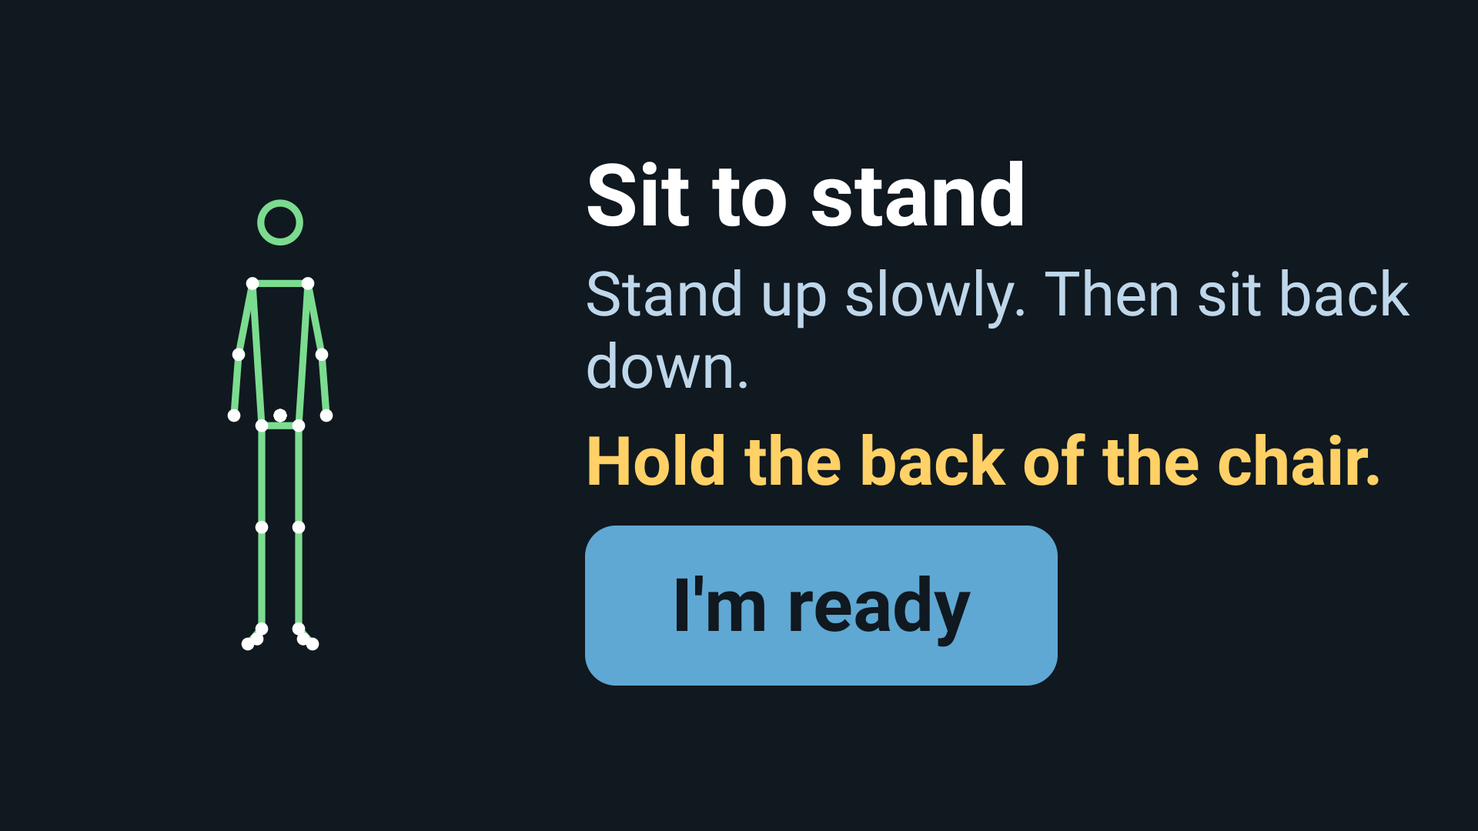
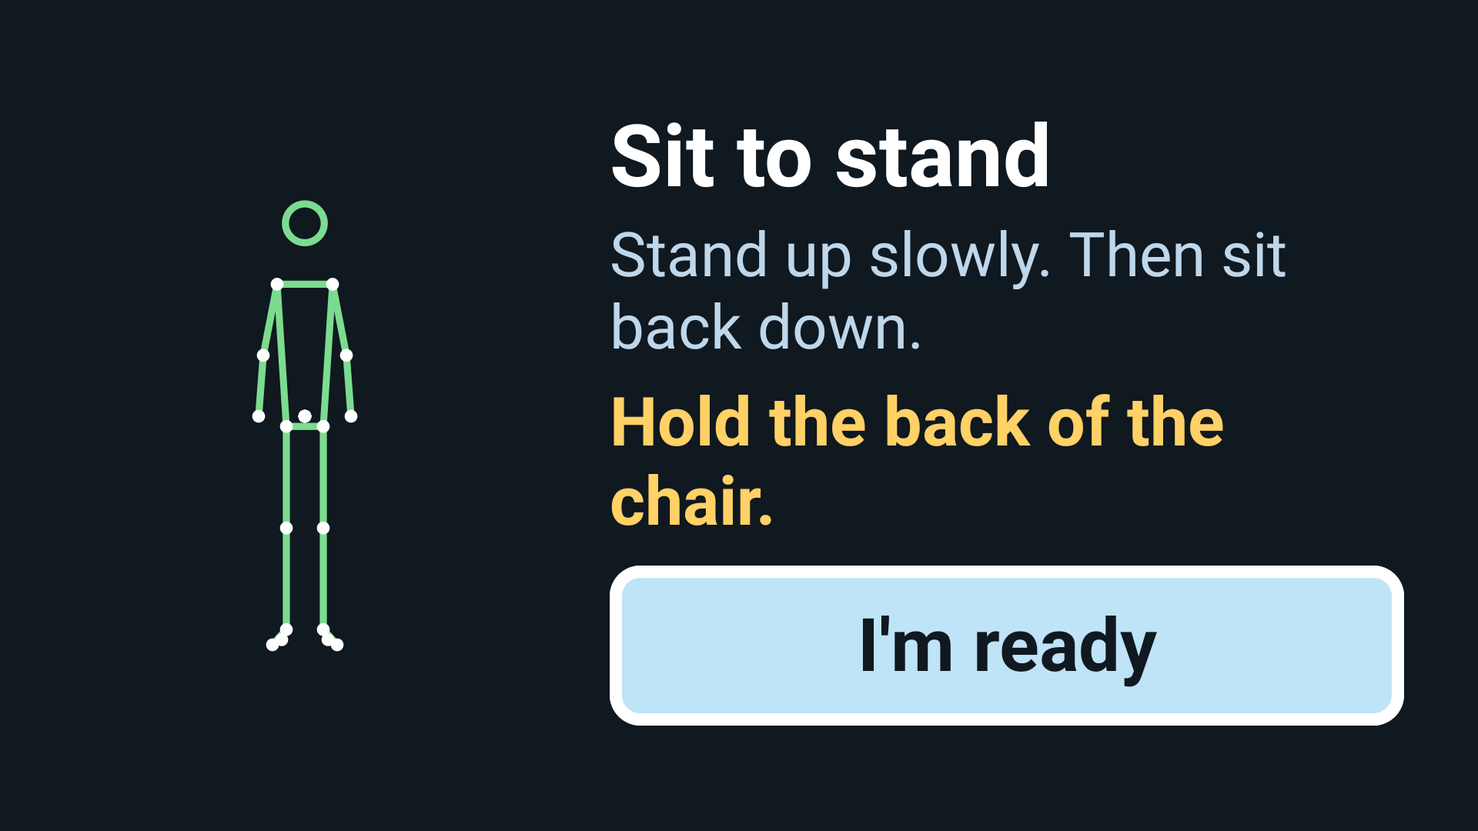
worldclass: visible focus ring on every screen, equal Home grid, compact Finish, test fixes

Changed region(s): [[0.375, 0.1528, 0.9688, 0.8861], [0.1562, 0.3361, 0.25, 0.7944], [0.1562, 0.2444, 0.2188, 0.3056]]

diff --git a/android/app/src/main/java/com/steadyup/tv/Screens.kt b/android/app/src/main/java/com/steadyup/tv/Screens.kt
@@ -2,6 +2,7 @@ package com.steadyup.tv
 
 import androidx.compose.foundation.BorderStroke
 import androidx.compose.foundation.background
+import androidx.compose.foundation.border
 import androidx.compose.foundation.layout.Arrangement
 import androidx.compose.foundation.layout.Box
 import androidx.compose.foundation.layout.Column
@@ -49,7 +50,7 @@ object Ink {
 
 @OptIn(ExperimentalTvMaterial3Api::class)
 @Composable
-fun BigButton(label: String, onClick: () -> Unit, autoFocus: Boolean = true, fontSp: Int = 48) {
+fun BigButton(label: String, onClick: () -> Unit, autoFocus: Boolean = true, fontSp: Int = 48, modifier: Modifier = Modifier, fixedSize: Boolean = false) {
     val focus = remember { FocusRequester() }
     var focused by remember { mutableStateOf(false) }
     // The remote's OK press must land on this button with no arrow keys. Focus can fail while the screen is still
@@ -58,24 +59,33 @@ fun BigButton(label: String, onClick: () -> Unit, autoFocus: Boolean = true, fon
         if (!autoFocus) return@LaunchedEffect
         repeat(30) { if (!focused) { runCatching { focus.requestFocus() }; delay(100) } }
     }
+    val shape = RoundedCornerShape(20.dp)
     Surface(
         onClick = onClick,
-        modifier = Modifier.focusRequester(focus).onFocusChanged { focused = it.isFocused },
-        shape = ClickableSurfaceDefaults.shape(RoundedCornerShape(20.dp)),
+        // hasFocus (not isFocused): the real focusable lives inside Surface, below this modifier. Knowing it has focus
+        // stops the retry loop above; asking again every 100 ms kept resetting Surface's own focus ring.
+        // We draw the one focus ring and the lighter fill from that state, so focus is visible however it arrived.
+        modifier = modifier.focusRequester(focus).onFocusChanged { focused = it.hasFocus }
+            .then(if (focused) Modifier.border(BorderStroke(8.dp, Color.White), shape) else Modifier),
+        shape = ClickableSurfaceDefaults.shape(shape),
         colors = ClickableSurfaceDefaults.colors(
-            containerColor = Ink.button, contentColor = Ink.bg,
+            containerColor = if (focused) Color(0xFFBFE3F7) else Ink.button, contentColor = Ink.bg,
             focusedContainerColor = Color(0xFFBFE3F7), focusedContentColor = Ink.bg,
         ),
-        border = ClickableSurfaceDefaults.border(focusedBorder = Border(BorderStroke(8.dp, Color.White))),
+        border = ClickableSurfaceDefaults.border(focusedBorder = Border.None),
     ) {
-        Text(label, fontSize = fontSp.sp, fontWeight = FontWeight.Bold, modifier = Modifier.padding(horizontal = if (fontSp < 48) 32.dp else 56.dp, vertical = if (fontSp < 48) 14.dp else 24.dp))
+        // the Surface's content box passes its size down, so a fixed-size button centres its label
+        Box(if (fixedSize) Modifier.fillMaxSize() else Modifier, contentAlignment = Alignment.Center) {
+            Text(label, fontSize = fontSp.sp, fontWeight = FontWeight.Bold, textAlign = TextAlign.Center,
+                modifier = Modifier.padding(horizontal = if (fontSp < 48) 24.dp else 48.dp, vertical = if (fontSp < 48) 14.dp else 24.dp))
+        }
     }
 }
 
 @Composable
 private fun Page(content: @Composable () -> Unit) {
     Column(
-        Modifier.fillMaxSize().background(Ink.bg).padding(32.dp),
+        Modifier.fillMaxSize().background(Ink.bg).padding(horizontal = 48.dp, vertical = 36.dp),
         verticalArrangement = Arrangement.Center,
         horizontalAlignment = Alignment.CenterHorizontally,
     ) { content() }
@@ -99,13 +109,13 @@ fun HomeScreen(onStart: () -> Unit, onWeek: () -> Unit, onTogether: () -> Unit, 
     Spacer(Modifier.height(20.dp))
     // 2 x 2 grid so every choice fits on a 1080p TV. Arrow keys move between them; the first has focus.
     Row(horizontalArrangement = Arrangement.spacedBy(24.dp)) {
-        BigButton(Sentences.HOME_START, onStart, fontSp = 40)
-        BigButton(Sentences.HOME_TOGETHER, onTogether, autoFocus = false, fontSp = 40)
+        BigButton(Sentences.HOME_START, onStart, fontSp = 40, modifier = Modifier.width(410.dp).height(124.dp), fixedSize = true)
+        BigButton(Sentences.HOME_TOGETHER, onTogether, autoFocus = false, fontSp = 40, modifier = Modifier.width(410.dp).height(124.dp), fixedSize = true)
     }
     Spacer(Modifier.height(16.dp))
     Row(horizontalArrangement = Arrangement.spacedBy(24.dp)) {
-        BigButton(Sentences.HOME_WEEK, onWeek, autoFocus = false, fontSp = 40)
-        BigButton(Sentences.CHAIR_BUTTON, onChair, autoFocus = false, fontSp = 40)
+        BigButton(Sentences.HOME_WEEK, onWeek, autoFocus = false, fontSp = 40, modifier = Modifier.width(410.dp).height(124.dp), fixedSize = true)
+        BigButton(Sentences.CHAIR_BUTTON, onChair, autoFocus = false, fontSp = 40, modifier = Modifier.width(410.dp).height(124.dp), fixedSize = true)
     }
 }
 
@@ -183,10 +193,10 @@ fun IntroScreen(item: PlanItem, onReady: () -> Unit) = Page {
 @OptIn(ExperimentalTvMaterial3Api::class)
 @Composable
 fun LiveScreen(item: PlanItem, count: Int, cue: String?, pose: PoseFrame?, together: TogetherView? = null, setNo: Int = 1, setTotal: Int = 1, voice: Boolean = true) {
-    Column(Modifier.fillMaxSize().background(Ink.bg).padding(horizontal = 32.dp, vertical = 16.dp)) {
+    Column(Modifier.fillMaxSize().background(Ink.bg).padding(horizontal = 48.dp, vertical = 30.dp)) {
         // top: where we are in the session, and the move
         Row(Modifier.fillMaxWidth(), verticalAlignment = Alignment.CenterVertically) {
-            Text("Move $setNo ${Sentences.OF} $setTotal", fontSize = 40.sp, color = Ink.soft)
+            Text("Move $setNo ${Sentences.OF} $setTotal", fontSize = 44.sp, color = Ink.soft)
             Spacer(Modifier.width(24.dp))
             Text(item.title, fontSize = 44.sp, fontWeight = FontWeight.Bold, color = Ink.text)
         }
@@ -198,7 +208,7 @@ fun LiveScreen(item: PlanItem, count: Int, cue: String?, pose: PoseFrame?, toget
                 // two people, side by side, each with a name under their figure
                 for ((label, p, tint) in listOf(Triple(Sentences.YOU, pose, Ink.good), Triple(together.name, together.pose, Ink.warn))) Column(Modifier.weight(1f).fillMaxHeight(), horizontalAlignment = Alignment.CenterHorizontally) {
                     Box(Modifier.weight(1f).fillMaxWidth()) { if (p != null) StickFigure(p, Modifier.fillMaxSize(), color = tint) }
-                    Text(label, fontSize = 40.sp, fontWeight = FontWeight.Bold, color = tint)
+                    Text(label, fontSize = 44.sp, fontWeight = FontWeight.Bold, color = tint)
                 }
             }
             Column(Modifier.width(440.dp), horizontalAlignment = Alignment.CenterHorizontally) {
@@ -206,7 +216,7 @@ fun LiveScreen(item: PlanItem, count: Int, cue: String?, pose: PoseFrame?, toget
                 Text("${Sentences.OF} ${item.target}" + if (item.isHold) " seconds" else "", fontSize = 48.sp, color = Ink.text)
                 Spacer(Modifier.height(12.dp))
                 // fill bar: how far through this set
-                Box(Modifier.fillMaxWidth().height(20.dp).background(Color(0xFF2A3B4D), RoundedCornerShape(10.dp))) {
+                Box(Modifier.fillMaxWidth().height(20.dp).background(Color(0xFF5B7388), RoundedCornerShape(10.dp))) {
                     Box(Modifier.fillMaxWidth((count.toFloat() / item.target).coerceIn(0f, 1f)).fillMaxHeight().background(Ink.good, RoundedCornerShape(10.dp)))
                 }
                 if (together != null) { Spacer(Modifier.height(8.dp)); Text("${Sentences.TOGETHER_TOTAL} ${together.total}", fontSize = 48.sp, fontWeight = FontWeight.Bold, color = Ink.text) }
@@ -244,13 +254,18 @@ fun RestScreen(next: PlanItem, secondsLeft: Int, onSkip: () -> Unit) = Page {
 @OptIn(ExperimentalTvMaterial3Api::class)
 @Composable
 fun FinishScreen(totals: List<Pair<String, Int>>, onDone: () -> Unit) = Page {
-    Text(Sentences.FINISH_TITLE, fontSize = 64.sp, fontWeight = FontWeight.Bold, color = Ink.good)
-    Spacer(Modifier.height(8.dp))
-    for ((title, n) in totals) Text("$title: $n", fontSize = 40.sp, color = Ink.text)
-    Spacer(Modifier.height(8.dp))
-    Text(Sentences.WELL_DONE.substringAfter(". "), fontSize = 48.sp, color = Ink.soft)
-    Spacer(Modifier.height(16.dp))
-    BigButton(Sentences.FINISH_OK, onDone)
+    Text(Sentences.FINISH_TITLE, fontSize = 60.sp, fontWeight = FontWeight.Bold, color = Ink.good)
+    Spacer(Modifier.height(4.dp))
+    // two columns so six totals plus the button always fit on the screen
+    Row(horizontalArrangement = Arrangement.spacedBy(48.dp)) {
+        for (half in totals.chunked((totals.size + 1) / 2)) Column {
+            for ((title, n) in half) Text("$title: $n", fontSize = 40.sp, color = Ink.text)
+        }
+    }
+    Spacer(Modifier.height(6.dp))
+    Text(Sentences.WELL_DONE.substringAfter(". "), fontSize = 44.sp, color = Ink.soft)
+    Spacer(Modifier.height(12.dp))
+    BigButton(Sentences.FINISH_OK, onDone, fontSp = 44)
 }
 
 
@@ -298,7 +313,8 @@ fun ChairNoScreen(onOk: () -> Unit) = Page {
 @Composable
 fun ChairAboutScreen(age: Int, sex: Int, onAge: () -> Unit, onSex: () -> Unit, onNext: () -> Unit) = Page {
     Text(Sentences.CHAIR_ABOUT, fontSize = 48.sp, color = Ink.text, textAlign = TextAlign.Center)
-    Spacer(Modifier.height(20.dp))
+    Text(Sentences.CHAIR_HINT, fontSize = 40.sp, color = Ink.soft, textAlign = TextAlign.Center)
+    Spacer(Modifier.height(12.dp))
     BigButton("Age: ${Cdc.AGE_LABELS[age]}", onAge, fontSp = 44)          // OK changes the choice; arrow down moves on
     Spacer(Modifier.height(12.dp))
     BigButton("Sex: ${Cdc.SEX_LABELS[sex]}", onSex, autoFocus = false, fontSp = 44)
@@ -326,7 +342,7 @@ fun ChairReadyScreen(n: Int) = Page {
 
 @Composable
 fun ChairGoScreen(count: Int, left: Int, cue: String?, pose: PoseFrame?, voice: Boolean) {
-    Column(Modifier.fillMaxSize().background(Ink.bg).padding(horizontal = 32.dp, vertical = 16.dp)) {
+    Column(Modifier.fillMaxSize().background(Ink.bg).padding(horizontal = 48.dp, vertical = 30.dp)) {
         Row(Modifier.fillMaxWidth(), verticalAlignment = Alignment.CenterVertically) {
             Text(Sentences.CHAIR_BUTTON, fontSize = 44.sp, fontWeight = FontWeight.Bold, color = Ink.text)
             Spacer(Modifier.width(24.dp))

diff --git a/android/app/src/main/java/com/steadyup/tv/Protocol.kt b/android/app/src/main/java/com/steadyup/tv/Protocol.kt
@@ -85,6 +85,7 @@ object Sentences {
     const val CHAIR_SKIP_1 = "That's okay. We'll skip this check."
     const val CHAIR_ABOUT = "Optional. This helps compare your score."
     const val NEXT = "Next"
+    const val CHAIR_HINT = "Press OK to change a choice."
     const val CHAIR_HOW_1 = "Sit in the middle of a chair without arms."
     const val CHAIR_HOW_2 = "Put the chair against a wall."
     const val CHAIR_HOW_3 = "Feet flat on the floor."
@@ -114,7 +115,7 @@ object Sentences {
     const val WEEK_PROBLEM = "We can't reach your week right now."
     val ALL = listOf(TRY_AGAIN, CONNECTING, SCAN, OR_TYPE, CONNECTED, PHONE_READY, LOST, SAFETY_1, SAFETY_2, SAFETY_OK,
         HOME_HELLO, HOME_START, HOLD_CHAIR, INTRO_GO, STEP_BACK, PAUSED, REST, REST_SKIP, NEXT_UP, WELL_DONE, FINISH_TITLE, FINISH_OK, OF,
-        CAL_TITLE, CAL_STEP, CAL_TWICE, CAL_AGAIN, CAL_SKIP, CHAIR_BUTTON, CHAIR_ASK, YES, NO, CHAIR_SKIP_1, CHAIR_ABOUT, NEXT,
+        CAL_TITLE, CAL_STEP, CAL_TWICE, CAL_AGAIN, CAL_SKIP, CHAIR_BUTTON, CHAIR_ASK, YES, NO, CHAIR_SKIP_1, CHAIR_ABOUT, NEXT, CHAIR_HINT,
         CHAIR_HOW_1, CHAIR_HOW_2, CHAIR_HOW_3, CHAIR_HOW_4, CHAIR_HOW_5, CHAIR_HOW_6, CHAIR_GET_READY, CHAIR_SCORE, CHAIR_STANDS,
         CHAIR_SHARE, CHAIR_GENERIC, ARMS, HOME_TOGETHER, TOGETHER_TITLE, TOGETHER_SCAN, TOGETHER_WAIT, TOGETHER_START, YOU, TOGETHER_TOTAL,
         HOME_WEEK, WEEK_TITLE, WEEK_NONE, WEEK_AGAIN, WEEK_LAST, WEEK_FAMILY, WEEK_LOADING, WEEK_PROBLEM)

diff --git a/tests/scriptedPhone.ts b/tests/scriptedPhone.ts
@@ -25,7 +25,15 @@ export class ScriptedPhone {
   constructor(private wsUrl: string) {}
 
   /** Pair with the TV by number, or (with `hello`) join a Move together room as family. */
-  join(code: string, hello: object = { type: "join", code }): Promise<void> {
+  async join(code: string, hello: object = { type: "join", code }): Promise<void> {
+    // the test machine's DNS now and then fails a lookup (EAI_AGAIN): try the connection a few times before giving up
+    for (let attempt = 0; ; attempt++) {
+      try { return await this.joinOnce(code, hello); }
+      catch (e: any) { if (attempt >= 3 || !/EAI_AGAIN|ENOTFOUND|ECONNRESET|ETIMEDOUT|EBUSY/.test(String(e?.message ?? e))) throw e; await sleep(1500); }
+    }
+  }
+
+  private joinOnce(code: string, hello: object): Promise<void> {
     this.ws = new WebSocket(this.wsUrl);
     return new Promise((resolve, reject) => {
       const t = setTimeout(() => reject(new Error("pairing timed out")), 20_000);

diff --git a/android/app/src/main/java/com/steadyup/tv/MainActivity.kt b/android/app/src/main/java/com/steadyup/tv/MainActivity.kt
@@ -256,7 +256,7 @@ fun PairScreen(state: PairingState, restart: () -> Unit) {
                     Text(PairingReducer.spaced(state.code), fontSize = 80.sp, fontWeight = FontWeight.Bold, softWrap = false,
                         fontFamily = FontFamily.Monospace, color = Color.White)
                     Spacer(Modifier.height(16.dp))
-                    Text(BuildConfig.WEB_URL.removePrefix("https://"), fontSize = 40.sp, color = Color(0xFFBFD7EA))
+                    Text(BuildConfig.WEB_URL.removePrefix("https://"), fontSize = 44.sp, color = Color(0xFFBFD7EA))
                 }
             }
             PairingState.Connected -> {

diff --git a/tests/e2e/s1-pairing.spec.ts b/tests/e2e/s1-pairing.spec.ts
@@ -21,8 +21,8 @@ test("S1 phone joins with the TV number, both show Connected; reuse is refused",
   await phone.screenshot({ path: "docs/screens/s1-phone-connected.png" });
 
   await expect.poll(() => adb("logcat", "-d", "-s", "SteadyUpPair"), { timeout: 15_000 }).toContain("state=connected");
-  await sleep(1500);
-  tvScreenshot("s1-tv-connected");
+  await sleep(300);
+  tvScreenshot("s1-tv-connected"); // inside the 1.8 s "Connected" moment
 
   const second = await newPhone(browser);
   await typeCode(second, code);

diff --git a/tests/e2e/s9z-rate-limit.spec.ts b/tests/e2e/s9z-rate-limit.spec.ts
@@ -12,7 +12,7 @@ const tryJoin = (code: string): Promise<string> => new Promise((resolve, reject)
 });
 
 test("S9 five wrong numbers in a minute, then a one-minute wait with a kind sentence", async () => {
-  test.setTimeout(3 * 60_000);
+  test.setTimeout(6 * 60_000); // three one-minute waits
   await new Promise((r) => setTimeout(r, 62_000)); // start from a clean minute (earlier tests made a few wrong tries)
   const seen: string[] = [];
   for (let i = 0; i < 5; i++) seen.push(await tryJoin("000000"));

diff --git a/tests/e2e/s4-session.spec.ts b/tests/e2e/s4-session.spec.ts
@@ -3,7 +3,7 @@ import { endpoints } from "../endpoints";
 import { ScriptedPhone } from "../scriptedPhone";
 import { tvCode, tvScreenshot, pressOk, waitScreen, logcat, sleep } from "../tv";
 
-const PLAN = ["--es", "plan", "sit_to_stand:3,heel_raise:3,march:3", "--ei", "restSec", "2"];
+const PLAN = ["--es", "plan", "sit_to_stand:3,heel_raise:3,march:3", "--ei", "restSec", "5"];
 let phone: ScriptedPhone | undefined;
 test.afterEach(() => { phone?.close(); phone = undefined; });
 

diff --git a/docs/TV-REVIEW.md b/docs/TV-REVIEW.md
@@ -1,0 +1,62 @@
+# TV accessibility review
+
+Reviewed by eye from the 1920x1080 screenshots (density 2.0, so 40 sp = 80 px). No code was run and no pixels were measured by tool. Text-size figures are estimates from visible cap heights (Roboto cap height is about 0.71 of the font size), good to roughly +/- 4 px. "Borderline" means my estimate is 78 to 82 px, so it could be on either side of 80. Confirm those in code, not from this review.
+
+Contrast: every pairing seen is well above 4.5:1. White, light blue (#BFD7EA-ish), green and amber on near-black navy are all about 10:1 or better. Dark text on the mid-blue button (#5FA8D3-ish) is about 7:1. Dark text on the pale focused button is about 12:1.
+
+## Per screenshot
+
+| File | Screen | Text size | Contrast | Clipping | Focus ring | Note |
+| --- | --- | --- | --- | --- | --- | --- |
+| s0-tv.png | Splash: SteadyUp + tagline | PASS (smallest: tagline, ~83 px) | PASS | none | no buttons | Clean. |
+| s1-tv-code.png | Pairing: QR, code, web address | FAIL (smallest: web address line ~76 px; "Or type this number:" ~80 px borderline) | PASS | none | no buttons | The address `d3ltiulf1p49il.cloudfront.net` is a tech word a user can see and is small. |
+| s1-tv-connected.png | First-run safety (not a "Connected" screen) | PASS (smallest: "I understand" button ~88 px) | PASS | none | visible | File name does not match the content. It shows the safety screen, so the "Connected" proof is missing. |
+| s2-tv-figure.png | Live set, Sit to stand 0 of 8 | PASS (smallest: "Move 1 of 10" ~78 px, borderline) | PASS (progress track is faint, see problems) | none; cue panel bottom is 32 px from the edge | no buttons | Header is the weakest text on every live screen. |
+| s4-1-safety.png | First-run safety | PASS (smallest: button ~88 px) | PASS | none | visible | Plain, short sentences. |
+| s4-2-home.png | Home: 4 buttons | PASS (smallest: "Good to see you." ~84 px) | PASS | none | visible (on "Start today's 10 minutes") | Focus ring touches the "Move together" button. The grid is ragged: row 1 is left-aligned and row 2 is centered. |
+| s4-3-intro.png | Move intro: Sit to stand | PASS (smallest: instruction ~84 px) | PASS | none | not visible | "I'm ready" has no focus ring. A line wraps with the orphan word "down." |
+| s4-4-live.png | Live set with cue "Keep knees over toes" | PASS (smallest: "Move 1 of 3" ~78 px, borderline) | PASS | none; cue panel bottom is 32 px from the edge | no buttons | Cue is large and clear. Panel is inside the 5% TV safe margin. |
+| s4-5-rest.png | Shows the Heel raises intro, not Rest | PASS (smallest: instruction ~84 px) | PASS | none | not visible | Not a Rest screen. The Rest screen has no screenshot. |
+| s4-6-intro-heel.png | Move intro: Heel raises | PASS (smallest: ~84 px) | PASS | none | not visible | Same as s4-3. Wrap leaves "lower slowly." on line 2, fine. |
+| s4-7-live-heel.png | Live set, Heel raises 2 of 3 | PASS (smallest: header ~78 px, borderline) | PASS | none; cue panel 32 px from edge | no buttons | Progress bar is readable once filled. |
+| s4-8-finish.png | Shows Home, not Finish | PASS (smallest: ~84 px) | PASS | none | visible | Not a Finish screen, content duplicates s4-2-home. |
+| s4-9-paused.png | Paused: "Press OK when you're ready." | PASS (smallest: OK button ~90 px) | PASS (amber on navy) | none | visible | The sentence wraps and leaves "ready." alone on line 2. |
+| s5-finish.png | Finish: "Well done!" and six totals | PASS (smallest: "See you tomorrow." ~84 px; totals ~84 px) | PASS | none; button bottom edge is 52 px from the bottom, tight vs overscan | visible, but button is EMPTY | The button has no label. A focused, empty button is the worst defect in this set. |
+| s5-intro-2.png | Move intro: Leg out to the side, left | PASS (smallest: instruction ~84 px) | PASS | none | not visible | Title wraps and leaves "left" alone. |
+| s5-intro-4.png | Move intro: March in place | PASS (smallest: ~84 px) | PASS | none | not visible | Good. |
+| s5-intro-5.png | Move intro: Foot in front | PASS (smallest: ~84 px) | PASS | none | not visible | Good. |
+| s5-live-hold.png | Live hold, 8 of 20 seconds | PASS (smallest: header ~78 px, borderline) | PASS | none; cue panel 32 px from edge | no buttons | Good. |
+| s6-tv-week.png | This week + family QR | PASS (smallest: "Last time:" ~78 px, borderline; list rows ~82 px) | PASS | none | not visible | "Back to start" shows no focus ring. Text column is dense for one screen. |
+| s8-tv-room.png | Move together: room code + QR | PASS (smallest: "Family can join with this." ~82 px) | PASS | none | not visible | "Start together" shows no focus ring. |
+| s8-tv-two-cameras.png | Together live: You and Ana (both moving) | PASS (smallest: header ~78 px borderline; "You"/"Ana" labels ~78 px borderline) | PASS | none; "You"/"Ana" sit 20 px above the cue panel, tight but not overlapping | no buttons | Figures are small. Two colors plus names helps. |
+| s8-tv-two-figures.png | Together live, cue shown, "Together: 2" | PASS (smallest: header ~78 px borderline; labels ~78 px borderline) | PASS | none; labels tight above cue panel | no buttons | Same layout as above. |
+| s9-calibrate.png | "Let's try once more" + 0 of 2 | PASS (smallest: instruction ~84 px; "Skip" ~80 px borderline) | PASS | none; bottom of Skip is 74 px from the edge | not visible | "Skip" has no focus ring. Wrapped lines are fine. |
+| s9-chair-1-question.png | Chair stand check: Yes / No | PASS (smallest: "Chair stand check" ~80 px, borderline) | PASS | none | visible (on "Yes") | One 11-word question. Good. |
+| s9-chair-2-about.png | Optional age / sex picker + Next | PASS (smallest: button text ~88 px) | PASS | none | visible (on "Sex: Woman") | "Age: 65 to 69" and "Sex: Woman" look like fixed labels, not choices. Nothing says "press OK to change". |
+| s9-chair-3-how.png | Chair stand check: how to do it | PASS (smallest: lines ~82 px, borderline) | PASS | none; margins are fine | not visible | Six short lines, none over 10 words. Good plain language. Button has no ring. |
+| s9-chair-4-go.png | Chair stand live: 21 s, 8 stands | PASS (smallest: "stands" ~90 px; header ~85 px) | PASS | none; cue panel 32 px from edge | no buttons | Good. |
+| s9-chair-5-result.png | Result: score 12, CDC line | PASS (smallest: CDC lines ~80 px, borderline) | PASS | none; left/right margin about 83 px | visible | "CDC lists under 11 as below average" is the longest text here and uses an acronym. |
+| s9-chair-no.png | "That's okay. We'll skip this check." | PASS (smallest: button ~88 px) | PASS | none | not visible | "Back to start" has no focus ring. |
+| s9-finish.png | Finish: Sit to stand 8 | PASS (smallest: "Sit to stand: 8" ~84 px) | PASS | none | visible | Good. Label is present on the button, unlike s5-finish. |
+| s9-home-grid.png | Home: 4 buttons | PASS (smallest: "Good to see you." ~84 px) | PASS | none | visible | Identical to s4-2. Focus ring still touches "Move together". |
+| s9-live-midset.png | Live set 7 of 8 with cue | PASS (smallest: header ~78 px, borderline) | PASS | none; cue panel 32 px from edge | no buttons | Good. |
+
+## Counts
+
+- Text-size verdict: **31 PASS, 1 FAIL** (32 screenshots).
+- About 12 of the 31 PASS rows contain text I rate borderline (78 to 82 px).
+- Other defects (not in the text-size count): 1 empty button (s5-finish), 11 screens where the only button shows no focus ring, 3 screenshots whose name does not match the screen shown.
+
+## Real problems, most serious first
+
+1. **s5-finish.png: the focused button has no label.** A person using the remote sees a blank pill and does not know what OK does. Fix: set the label ("Back to start") or find why the text is missing (likely text colour equal to the focused fill, or an empty string on this screen path).
+2. **Single-button screens show no focus ring** (s4-3, s4-5, s4-6, s5-intro-2/4/5, s6-tv-week, s8-tv-room, s9-calibrate, s9-chair-3, s9-chair-no). With one button the user cannot tell it is pressable. Fix: request focus on the primary button when the screen appears (`LaunchedEffect` plus `FocusRequester`) so the 6 dp white ring always shows. The intro "I'm ready" screens matter most, since they gate every set. Note the emulator capture may have been taken before focus was granted, so confirm on a rerun.
+3. **Evidence does not match file names.** s1-tv-connected shows the safety screen, s4-5-rest shows the Heel raises intro, s4-8-finish shows Home. The "Connected", Rest and Finish screens for the S1 and S4 slices therefore have no valid proof here, and I could not review the Rest screen at all. Fix: recapture these three, or rename and add the missing shots.
+4. **s1-tv-code.png: web address line is a tech word and the smallest text in the set (~76 px).** "d3ltiulf1p49il.cloudfront.net" breaks the "no tech words" rule and is below 80 px. Fix: drop it from the TV (the QR and the 6 digits are enough) or show a short friendly line such as "Or go to the web page on your phone's browser"; if it must stay, raise it to at least 40 sp.
+5. **"Move N of M" header and "You"/"Ana" labels are borderline (~78 px).** They sit on every live screen. Fix: set them to at least 44 sp so they clear 80 px with margin; do not rely on this review to confirm exact sizes.
+6. **Live-screen content sits inside the overscan margin.** The cue panel ends 32 px from the bottom edge and the header starts about 50 px from the top; s5-finish's button ends 52 px from the bottom. Many TVs crop 3 to 5% (about 32 to 54 px). Fix: add at least 54 px safe padding on all edges (about 27 dp).
+7. **Home grid is ragged and the focus ring touches a neighbour** (s4-2, s9-home-grid). Row 1 is two unequal buttons running to the left edge, row 2 is centred, and the ring on "Start today's 10 minutes" touches "Move together". Fix: use equal-width buttons in a 2x2 grid with at least 24 dp gaps, or a single vertical list (best for arrow-key navigation).
+8. **Progress track is almost invisible when empty** (s2, s4-4, s8). The empty bar (#2B3B4D on #111820) is about 1.5:1. It is not text, but at 0 progress it looks like a missing element. Fix: lighten the track or add a 2 dp outline (3:1 is the non-text target).
+9. **s9-chair-5-result: "CDC lists under 11 as below average for your age."** Uses an acronym and a comparison claim on screen. It quotes the cited source, so it is probably within the hard rule, but "CDC" is jargon for this audience. Fix: say "The U.S. health agency lists under 11 as below average", or keep "CDC" only in the README.
+10. **s9-chair-2-about: age and sex buttons do not look changeable.** "Age: 65 to 69" reads as fixed text. Fix: add a hint such as "Press OK to change" or show left/right arrows on the focused button.
+11. **Orphan wraps** ("down." in s4-3, "ready." in s4-9, "left" in s5-intro-2, "week." in s6). Cosmetic. Fix: widen the text column or insert a manual line break after the first sentence.
